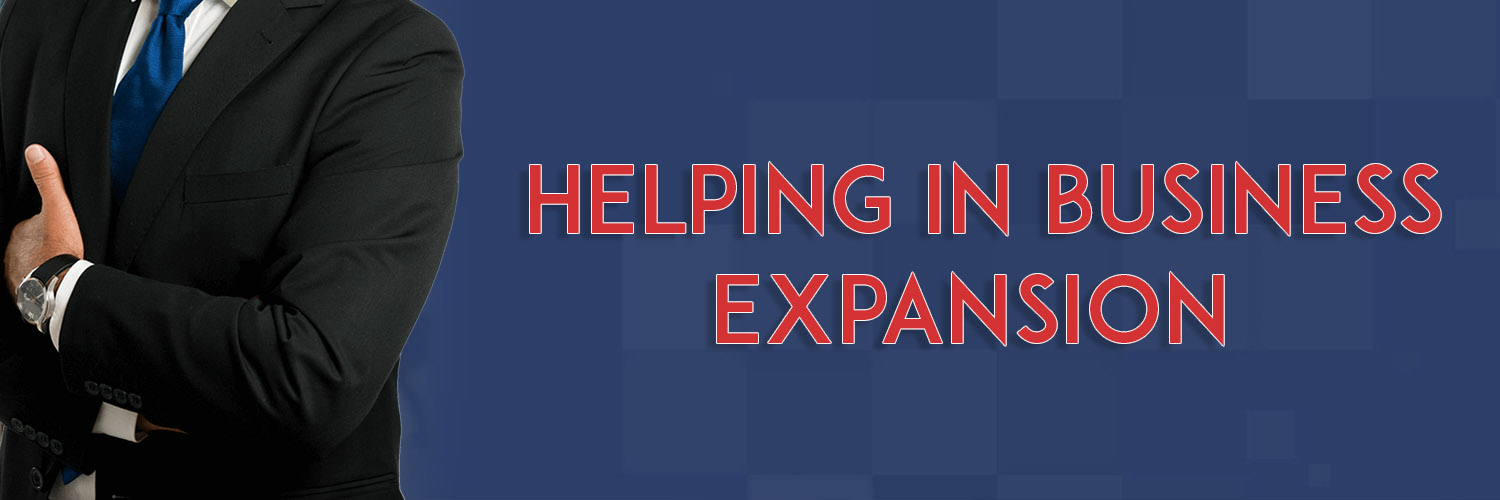
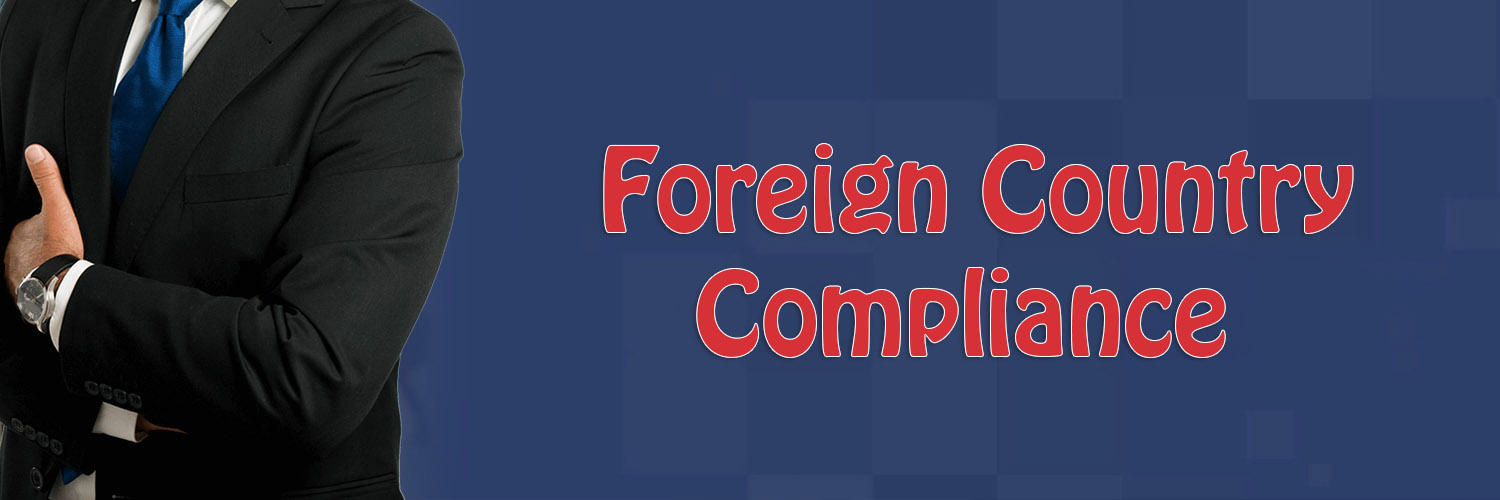
new page created

Changed region(s): [[0.3373, 0.27, 0.9813, 0.48], [0.46, 0.51, 0.828, 0.72]]

diff --git a/resources/views/foreign-country-compliance.blade.php b/resources/views/foreign-country-compliance.blade.php
@@ -105,7 +105,7 @@ Completing and filing the annual corporate tax returns and coordinating required
 <div class="col-lg-3">
 </div>
 <div class="col-lg-6">
-<h1 style="text-align:center; " class="pt-20 pb-20">Helping in Business Expansion</h1>
+<h1 style="text-align:center; " class="pt-20 pb-20">Foreign Country Compliance</h1>
                 <div role="form" class="wpcf7" id="wpcf7-f535-p532-o1" lang="en-US" dir="ltr">
                     <div class="screen-reader-response"></div>
                     <form action="{{url('sendmail/contact')}}" method="post" class="wpcf7-form" novalidate="novalidate">

diff --git a/resources/views/header.blade.php b/resources/views/header.blade.php
@@ -176,7 +176,7 @@ Surrey, BC V3W 4E8 canada --><a href="#footer-2">INDIA | CANADA</a>
 	<li><a href="{{url('/eb-5')}}" title="Visa Eligibility Assessment">EB 5 Services</a></li>
 	<li><a href="{{url('/tour-travel')}}" title="PR Visa Assessment">Tours & Travel Services</a></li>
 	
-	<li><a href="{{url('/helping-in-business')}}" title="Visa Eligibility Assessment">Foreign Country Compliance</a></li>
+	<li><a href="{{url('/foreign-country-compliance')}}" title="Visa Eligibility Assessment">Foreign Country Compliance</a></li>
 </ul></div>
 
 

diff --git a/resources/views/ourservies.blade.php b/resources/views/ourservies.blade.php
@@ -96,7 +96,7 @@ eb-5</p>
 
                 <div class="col-md-6 col-lg-4">
                     <div class="sbox-4 icon-sm">
-                        <a href="{{url('/eb-5')}}">
+                        <a href="{{url('/foreign-country-compliance')}}">
 
                             <div class="sbox-4-icon primary-color"><i class="fas fa-vihara" style="font-size: 50px;"></i></div>
 

diff --git a/routes/web.php b/routes/web.php
@@ -38,9 +38,9 @@ Route::get('/visa-assistance', function(){
 
     return view('visa-assistance');
 });
-Route::get('/helping-in-business', function(){
+Route::get('/foreign-country-compliance', function(){
 
-    return view('helping-in-business');
+    return view('foreign-country-compliance');
 });
 
 Route::get('/career', function(){
